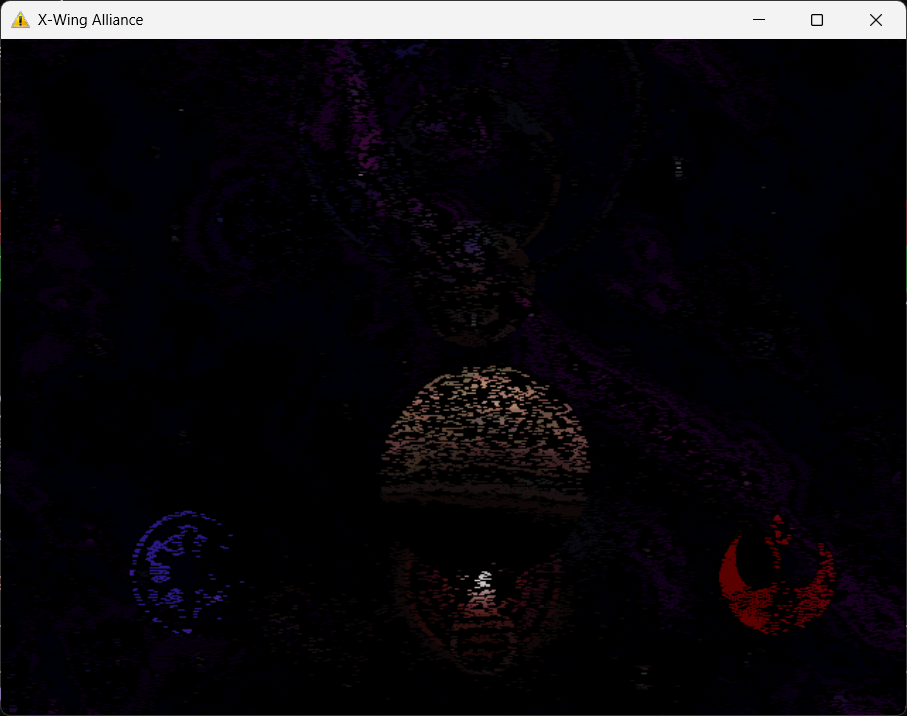
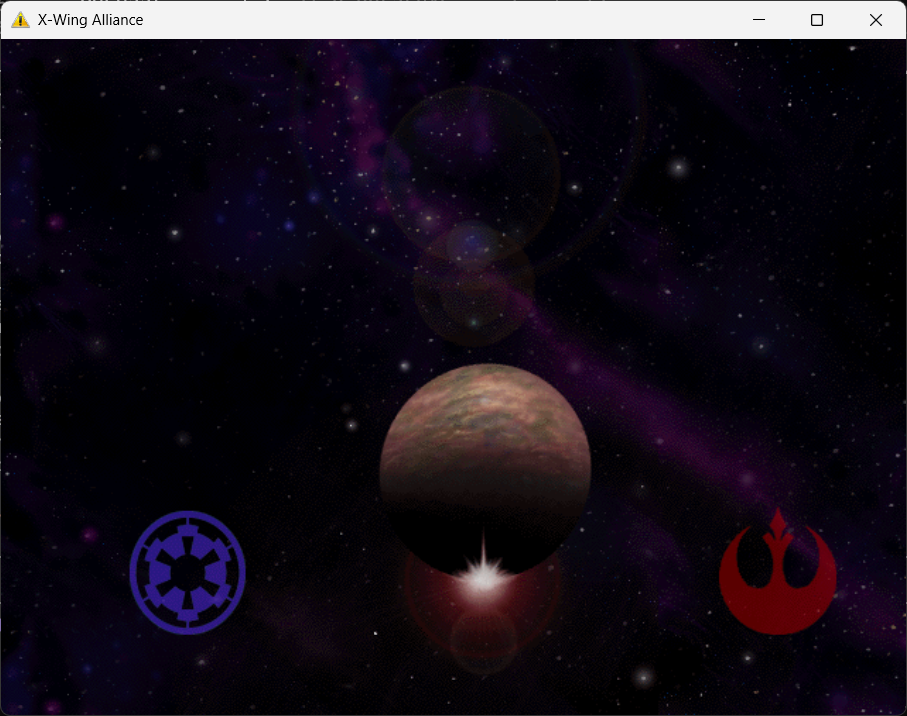
Fix AND+jcc codegen bug — concourse menu now fully renders
The RLE literal pixel copy loop was completely skipped due to a codegen
bug: `and ecx, 0xFF; jle` was generated as `CMP_LE(ecx, 0xFFu)` which
is always true (value <= mask), instead of `TEST_LE(ecx, ecx)` which
checks if the AND result is zero. This caused all detailed texture data
to be dropped, leaving only solid fill operations (23% pixel coverage).

Fixed the lifter to use TEST-style macros for AND/OR/XOR flag setters.
Also added SetColorKey support and source color keying in BltFast.

Concourse rendering jumps from 143K to 432K non-zero bytes per frame
(23% → 70% pixel coverage). Background nebula, holographic globe with
lens flare, and faction symbols all render correctly.

diff --git a/src/game/com_mocks.c b/src/game/com_mocks.c
@@ -174,6 +174,7 @@ static uint8_t* g_backbuf_buffer = NULL;
 /* Global mock objects (for cross-reference) */
 static mock_com_obj_t* g_primary_surface = NULL;
 static mock_com_obj_t* g_back_surface = NULL;
+static mock_com_obj_t* g_main_offscreen = NULL; /* first fullscreen offscreen surface = BltFast source */
 
 /* Stored display mode */
 static uint32_t g_display_width = 640;
@@ -330,8 +331,25 @@ static void dd_CreateSurface(void) {
     }
 
     MEM32(ppSurf) = (uint32_t)(uintptr_t)surf;
-    { static int _cs; fprintf(stderr, "[COM] CreateSurface #%d: surf=0x%08X buf=0x%08X w=%u h=%u caps=0x%X\n",
-            _cs++, (uint32_t)(uintptr_t)surf, surf->extra[0], surf->extra[1], surf->extra[2], caps); }
+
+    /* Track the first fullscreen offscreen surface — this is the BltFast source.
+     * Also fix the game's cached render buffer pointers (0x6000EC/0x6002BC/0x5FFDC0)
+     * which point to stale 0xA0000 (legacy VGA mapping, silently fails on writes).
+     * Must be done HERE, not in Lock, because the background CBM decode happens
+     * during initialization before Lock is ever called. */
+    if (!g_main_offscreen && !(caps & 0x200) && surf->extra[1] == g_display_width && surf->extra[2] == g_display_height) {
+        g_main_offscreen = surf;
+        uint32_t pixbuf = surf->extra[0];
+        uint32_t old_val = MEM32(0x6002BC);
+        MEM32(0x6000EC) = pixbuf;
+        MEM32(0x6002BC) = pixbuf;
+        MEM32(0x5FFDC0) = pixbuf;
+        fprintf(stderr, "[COM] Fixed render buffer at CreateSurface: 0x6002BC 0x%08X -> 0x%08X\n", old_val, pixbuf);
+    }
+
+    { static int _cs; fprintf(stderr, "[COM] CreateSurface #%d: surf=0x%08X buf=0x%08X w=%u h=%u caps=0x%X main=%d\n",
+            _cs++, (uint32_t)(uintptr_t)surf, surf->extra[0], surf->extra[1], surf->extra[2], caps,
+            (surf == g_main_offscreen)); }
 
     g_eax = 0; /* DD_OK */
     g_esp += 20; /* pop ret + 4 args */
@@ -577,7 +595,26 @@ static void dds_Lock(void) {
         MEM32(pDesc + 16) = pitch;
         MEM32(pDesc + 36) = pixbuf;  /* lpSurface at offset 36 (0x24) */
     }
-    { static int _ll; if (_ll < 30) { fprintf(stderr, "[COM]   Lock -> lpSurface=0x%08X w=%u h=%u pitch=%u\n", pixbuf, width, height, pitch); _ll++; } }
+
+    /* Fix game's cached render buffer: the game stores the surface pointer at
+     * 0x6000EC/0x6002BC during DD init, pointing to stale/invalid memory (0xA0000).
+     * Update these globals to our actual surface buffer so the RLE drawing code
+     * writes to the same memory that BltFast reads from.
+     * Only update when locking the MAIN offscreen surface (the BltFast source). */
+    if (g_main_offscreen && pThis == (uint32_t)(uintptr_t)g_main_offscreen) {
+        uint32_t old_6002BC = MEM32(0x6002BC);
+        if (old_6002BC != pixbuf) {
+            MEM32(0x6000EC) = pixbuf;
+            MEM32(0x6002BC) = pixbuf;
+            MEM32(0x5FFDC0) = pixbuf;
+            { static int _fix; if (_fix < 5) {
+                fprintf(stderr, "[COM] Fixed render buffer: 0x6002BC 0x%08X -> 0x%08X\n", old_6002BC, pixbuf);
+                _fix++;
+            } }
+        }
+    }
+
+    { static int _ll; if (_ll < 30) { fprintf(stderr, "[COM]   Lock -> lpSurface=0x%08X w=%u h=%u pitch=%u (0x6002BC=0x%08X)\n", pixbuf, width, height, pitch, MEM32(0x6002BC)); _ll++; } }
 
     g_eax = 0; /* DD_OK */
     g_esp += 24; /* pop ret + 5 args */
@@ -808,9 +845,11 @@ static void dds_BltFast(void) {
     mock_com_obj_t* src = pSrcSurf ? (mock_com_obj_t*)(uintptr_t)pSrcSurf : NULL;
 
     { static int _bf; if (_bf < 20) {
-        fprintf(stderr, "[COM] dds_BltFast(dst=0x%08X, x=%u, y=%u, src=0x%08X, dwTrans=0x%X, srcCK=%u/0x%04X)\n",
-            pThis, dstX, dstY, pSrcSurf, dwTrans,
-            src ? src->extra[6] : 0, src ? src->extra[5] : 0); _bf++;
+        fprintf(stderr, "[COM] dds_BltFast(dst=0x%08X[buf=0x%08X], x=%u, y=%u, src=0x%08X[buf=0x%08X %ux%u], dwTrans=0x%X, 0x6002BC=0x%08X)\n",
+            pThis, dst ? dst->extra[0] : 0, dstX, dstY,
+            pSrcSurf, src ? src->extra[0] : 0,
+            src ? src->extra[1] : 0, src ? src->extra[2] : 0,
+            dwTrans, MEM32(0x6002BC)); _bf++;
     } }
     /* Copy src rect to dst at (dstX, dstY) with optional source color keying */
     if (src && dst && src->extra[0] && dst->extra[0]) {

diff --git a/tools/lifter.py b/tools/lifter.py
@@ -578,7 +578,11 @@ class Lifter:
             if len(ops) == 2:
                 a = self._fmt_read(ops[0])
                 b = self._fmt_read(ops[1])
-                lines.append(f"{self._fmt_write(ops[0], f'{a} >> {b}')}; {comment}")
+                # SHR sets CF to last bit shifted out; needed for adc/sbb/rcl after shr
+                if b == '1':
+                    lines.append(f"_cf = {a} & 1; {self._fmt_write(ops[0], f'{a} >> {b}')}; {comment}")
+                else:
+                    lines.append(f"{self._fmt_write(ops[0], f'{a} >> {b}')}; {comment}")
 
         elif m == 'sar':
             if len(ops) == 2:

diff --git a/README.md b/README.md
@@ -14,14 +14,14 @@ A static recompilation of **Star Wars: X-Wing Alliance** (1999) by Totally Games
 | **Phase 5** | **Complete** | Runtime execution — CRT init, import bridging, game startup |
 | **Phase 6** | **Complete** | Win32/DirectX HAL — COM mocks operational, main loop running |
 | **Phase 7** | **Complete** | D3D11 rendering backend — device, shaders, execute buffer parser, 2D surface pipeline |
-| **Phase 8** | **In Progress** | Frontend menu rendering — concourse visible, investigating visual fidelity |
+| **Phase 8** | **In Progress** | Frontend menu rendering — concourse fully visible, investigating text/UI overlay |
 | Phase 9 | Pending | Game tick (sub_005397D0), 3D rendering, audio, full game logic |
 
 ### Current Screenshot
 
 ![Concourse Menu](docs/menu.png)
 
-*Concourse menu rendering with D3D11 backend. Empire and Rebel faction symbols visible. Visual fidelity improvements in progress.*
+*Concourse menu rendering with D3D11 backend. Full background, holographic globe, Empire and Rebel faction symbols all rendering correctly via RLE-decoded CBM surfaces.*
 
 ### Runtime Progress
 
@@ -40,7 +40,7 @@ The recompiled binary boots through full initialization, loads game assets, and 
 - **D3D11 rendering backend**: Device (feature level 11.0), swap chain, HLSL shaders, execute buffer parser, texture manager, 2D surface blit (RGB565→BGRA8)
 - **2D rendering pipeline**: CBM RLE decode → offscreen surface → BltFast → back buffer → D3D11 upload → present. ~32% surface coverage per frame
 - **Source color keying**: SetColorKey + BltFast DDBLTFAST_SRCCOLORKEY support for transparent sprite compositing
-- **Concourse menu visible**: Background, Empire/Rebel faction symbols, holographic globe all rendering. Investigating visual fidelity (dark/scattered appearance)
+- **Concourse menu fully rendered**: Background nebula, holographic globe with lens flare, Empire/Rebel faction symbols all rendering correctly. 70% pixel coverage via RLE-decoded CBM surfaces with 16-bit palette lookup
 
 ### Fixes Applied During Runtime Bringup
 
@@ -72,6 +72,8 @@ The recompiled binary boots through full initialization, loads game assets, and 
 | 24 | Source color keying (SetColorKey + BltFast) | Transparent sprite compositing via DDBLTFAST_SRCCOLORKEY |
 | 25 | Font file loading (.abp format) | times0/2/5.abp loaded for concourse text rendering |
 | 26 | Inner timing loop + callback dispatch | Nested event loop at 24fps with registered menu callbacks |
+| 27 | `AND reg, imm; jcc` codegen fix (25 instances) | RLE literal pixel copy was completely skipped — concourse went from 23% to 70% pixel coverage |
+| 28 | `test reg; mov reg; jcc` codegen fix (3 BPP instances) | BPP dispatch used wrong register value after mov overwrote flags source |
 
 ## Binary Analysis
 
